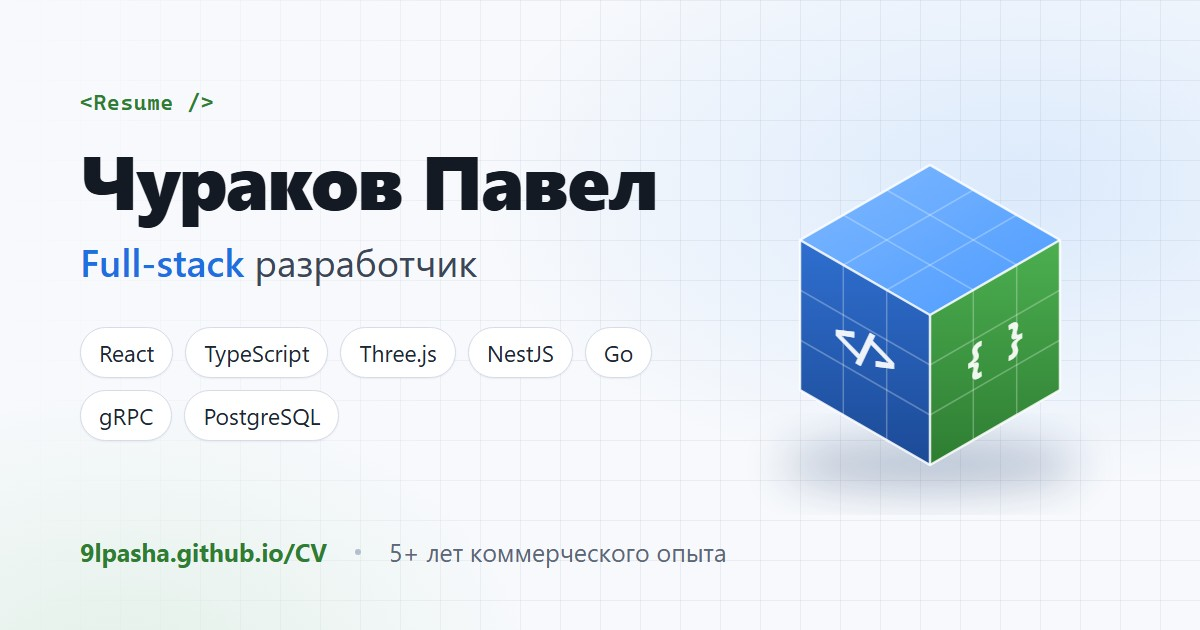
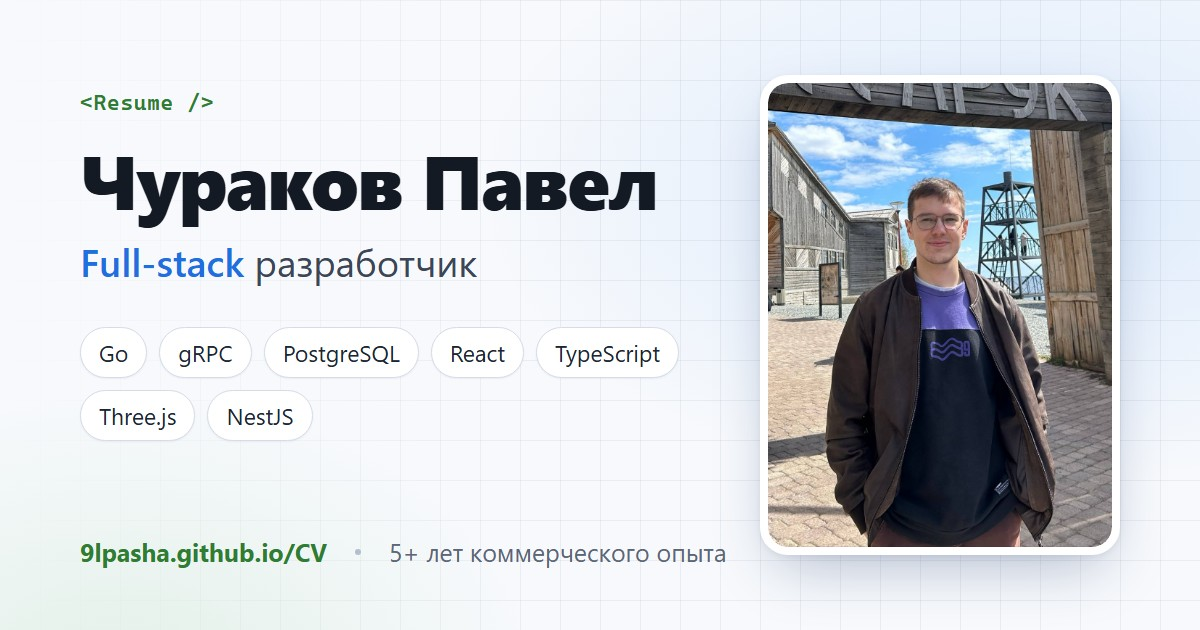
Show photo in og:image and lead the stack with Go
Replace the cube illustration with the profile photo, list
Go, gRPC and PostgreSQL first, and bump the image version to v=4
so link previews refresh.

Changed region(s): [[0.6167, 0.1206, 0.9558, 0.9349], [0.0617, 0.5429, 0.555, 0.6032], [0.0617, 0.6333, 0.2775, 0.6937]]

diff --git a/public/index.html b/public/index.html
@@ -16,8 +16,8 @@
     <meta property="og:url" content="https://9lpasha.github.io/CV/" />
     <meta property="og:title" content="Чураков Павел — Full-stack разработчик" />
     <meta property="og:description" content="React, Three.js, NestJS, Go. 5+ лет коммерческого опыта: сложные интерфейсы, производительность, REST и gRPC-сервисы." />
-    <meta property="og:image" content="https://9lpasha.github.io/CV/og-image.jpg?v=3" />
-    <meta property="og:image:secure_url" content="https://9lpasha.github.io/CV/og-image.jpg?v=3" />
+    <meta property="og:image" content="https://9lpasha.github.io/CV/og-image.jpg?v=4" />
+    <meta property="og:image:secure_url" content="https://9lpasha.github.io/CV/og-image.jpg?v=4" />
     <meta property="og:image:type" content="image/jpeg" />
     <meta property="og:image:width" content="1200" />
     <meta property="og:image:height" content="630" />
@@ -28,7 +28,7 @@
     <meta name="twitter:card" content="summary_large_image" />
     <meta name="twitter:title" content="Чураков Павел — Full-stack разработчик" />
     <meta name="twitter:description" content="React, Three.js, NestJS, Go. 5+ лет коммерческого опыта." />
-    <meta name="twitter:image" content="https://9lpasha.github.io/CV/og-image.jpg?v=3" />
+    <meta name="twitter:image" content="https://9lpasha.github.io/CV/og-image.jpg?v=4" />
 
     <link rel="apple-touch-icon" href="https://maxcdn.icons8.com/packs/preview-icon/profile.svg" />
     <link rel="manifest" href="%PUBLIC_URL%/manifest.json" />
